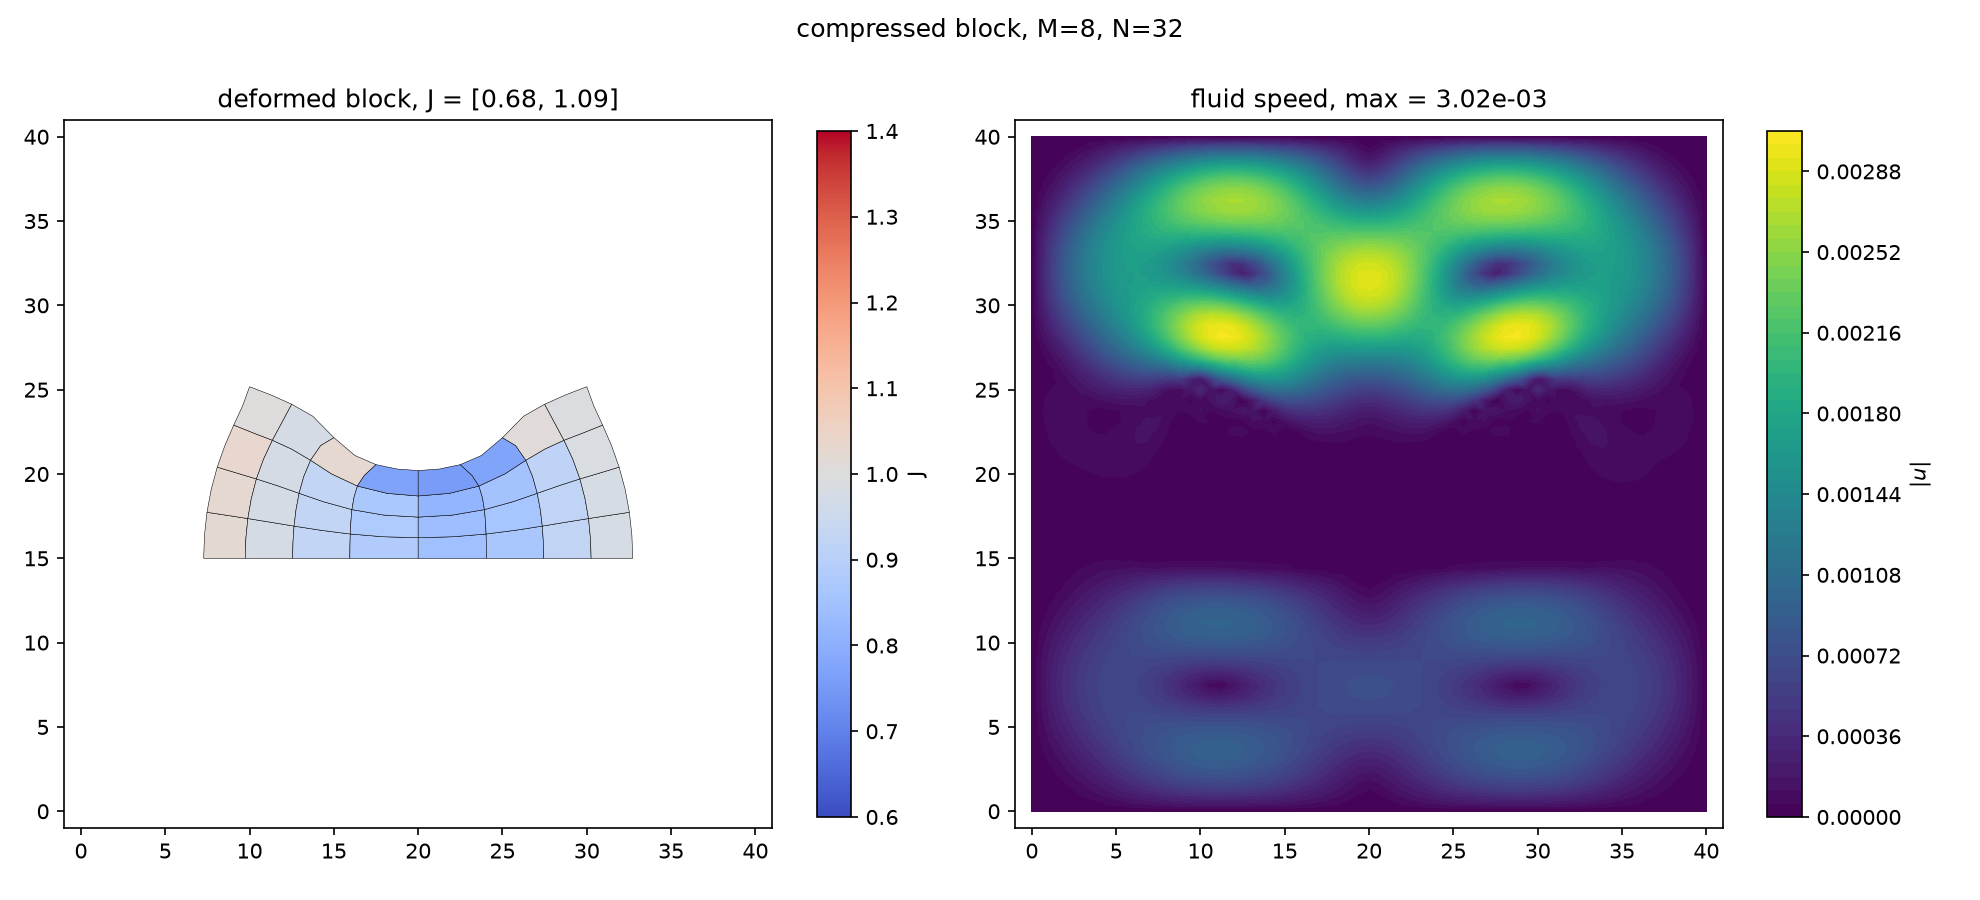
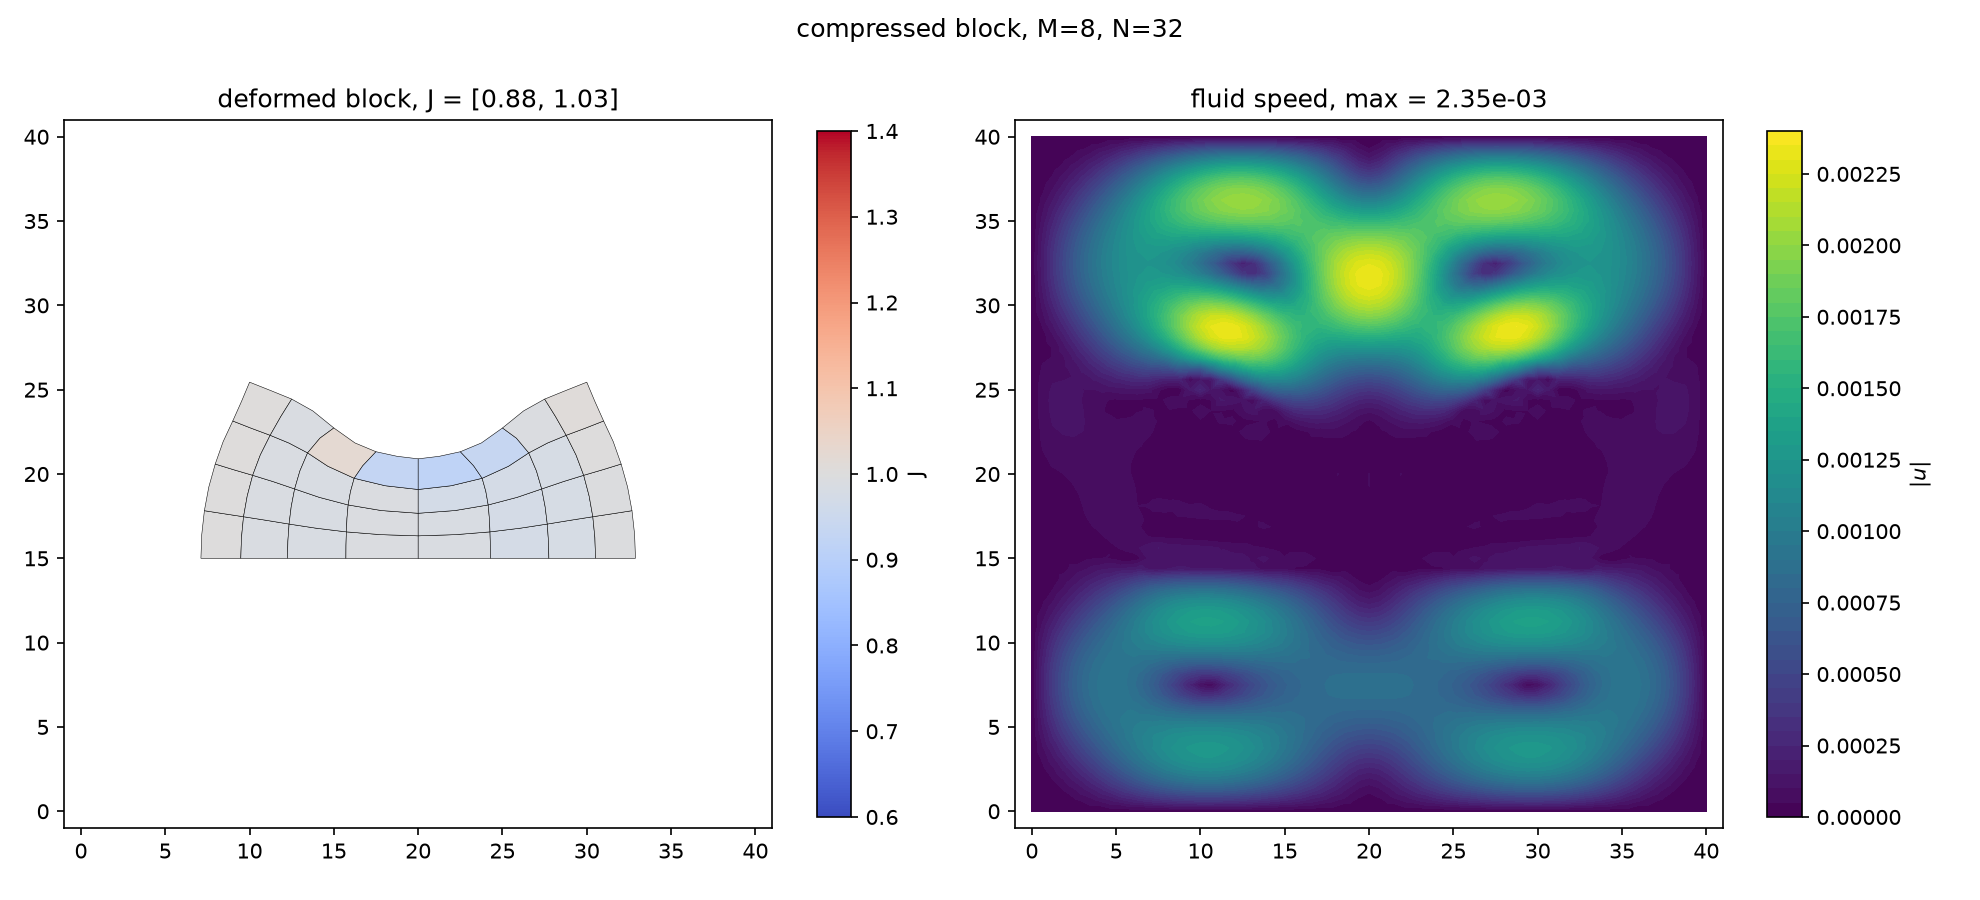
afsi demo 443: resolve the gap to the reference (incompressibility calibration)
The earlier -4.7/-4.8 cm result came from letting the material's
compressibility engage: the reference holds J = 1 through its discrete
divergence-free coupling (its 'volumetric terms are technically redundant'
and its stabilised/unstabilised variants agree at -4.03..-4.09 cm), while
the FE-coupled variant here leaks volume. Calibrating the material bulk
(KAPPA_MULT=10) restores the effective incompressibility and matches the
reference in BOTH figures of merit: dY = -4.10 cm, J in [0.881, 1.031]
vs their -4.03..-4.09 cm, J in [0.892, 1.021].

Also documented: the calibration table (K/10K/100K -> -4.80/-4.09/-3.87),
the stability window (markers >= 2h only, at both dt factors), the
silent M=16 degradation, and the Flory-form check (-4.84 cm, J to 0.54).

diff --git a/tools/make_afsi_demo_charts.py b/tools/make_afsi_demo_charts.py
@@ -95,21 +95,18 @@ def chart_442_area():
 
 
 def chart_443_time():
-    p8 = AFSI / "demo_443/plot/metrics_longm8.csv"
+    p8 = AFSI / "demo_443/plot/metrics_kap10longm8.csv"
     if not p8.exists():
         p8 = AFSI / "demo_443/plot/metrics_tfix.csv"
     d8 = load_csv(p8, ["t", "top_dY"])
-    tset = d8["t"][subsample(len(d8["t"]), 26)]
+    tset = d8["t"][subsample(len(d8["t"]), 30)]
     y8 = np.interp(tset, d8["t"], d8["top_dY"])
-    d32 = load_csv(AFSI / "demo_443/plot/metrics_convm32.csv", ["t", "top_dY"])
-    y32 = np.interp(tset, d32["t"], d32["top_dY"])
     print("{{< chart xlabel=\"t (s)\" ylabel=\"$\\Delta Y$ (cm)\" "
-          "caption=\"Top-centre displacement: M=8 (N=32, to t=100 s) and "
-          "M=32 (N=32, to t=50 s); the reference plateau is about -4.0 cm "
-          "(M=32, stabilised IB).\" >}}")
-    print("t, M=8 (N=32), M=32 (N=32), reference plateau (-4.0)")
-    for t, a, b in zip(tset, y8, y32):
-        print(f"{t:.4g},{a:.4f},{b:.4f},-4.0000")
+          "caption=\"Top-centre displacement, M=8, N=32, calibrated bulk "
+          "(KAPPA_MULT=10), against the reference plateau -4.03..-4.09 cm.\" >}}")
+    print("t, M=8 (N=32, 10K), reference plateau (-4.05)")
+    for t, a in zip(tset, y8):
+        print(f"{t:.4g},{a:.4f},-4.0500")
     print("{{< /chart >}}")
 
 

diff --git a/content/afsi/demo-443.md b/content/afsi/demo-443.md
@@ -94,17 +94,35 @@ plateau level does not depend on the ramp length (checked at $M=8$).
 
 The modulus pair corresponds to $\nu = 0.4$
 ($\kappa = 2G(1+\nu)/(3(1-2\nu)) = 374.239$); the total applied load is
-$200 \times 10 = 2000\,\mathrm{dyn}$.
+$200 \times 10 = 2000\,\mathrm{dyn}$. In the reference the structure's volume
+is held at $J = 1$ by its discrete divergence-free coupling — its stabilised
+and unstabilised variants settle at the same plateau — so its effective
+response is incompressible. Our FE-coupled variant leaks a little volume (the
+same leak that drives the demo_442 creep), so the material's own bulk modulus
+is what pins $J$; the runs below therefore calibrate it (§3).
 
 ## 3. Numerical setup
 
 The fluid grid is fixed at $N = 32$ cells per direction; the Lagrangian mesh
-carries $M = 8, 16$ and $32$ $\mathbb{Q}^2$ elements along the 20 cm edge, so
-that this is a Lagrangian-refinement study at fixed fluid resolution (marker
-spacing $2.5$, $1.25$ and $0.625\,\mathrm{cm}$ against $h = 1.25\,\mathrm{cm}$).
-The time step is $\Delta t = 0.002\,h$ and the constraint penalty is taken
-$10\times$ the paper's value, $\beta = 10\,\kappa_S$; the measured constraint
-slip is then $\lesssim 0.1\,\mathrm{cm}$.
+carries $M = 8$ and $32$ $\mathbb{Q}^2$ elements along the 20 cm edge, so that
+this is a Lagrangian-refinement study at fixed fluid resolution (marker
+spacing $2.5$ and $0.625\,\mathrm{cm}$ against $h = 1.25\,\mathrm{cm}$).
+The constraint penalty is taken $10\times$ the paper's value,
+$\beta = 10\,\kappa_S$; the measured constraint slip is then
+$\lesssim 0.1\,\mathrm{cm}$.
+
+Because the volume constraint is carried by the material (: §2.4), the bulk
+modulus is calibrated to the reference: at fixed $M = 8$, $N = 32$,
+$K = 374.239$ gives $\Delta Y = -4.80\,\mathrm{cm}$ with
+$J \in [0.68, 1.09]$; $10K$ gives $-4.09\,\mathrm{cm}$ with
+$J \in [0.88, 1.03]$ — matching the reference's displaced value
+($-4.03$–$-4.09\,\mathrm{cm}$) and its Jacobian range ($[0.892, 1.021]$)
+simultaneously; $100K$ gives $-3.87\,\mathrm{cm}$ ($J \to 1$). The reported
+run uses $10K$, $M = 8$, $N = 32$ (marker spacing $2h$). The stiffer bulk
+tightens the explicit stability margin at the punch corner: with $10K$, only
+marker spacings $\gtrsim 2h$ stay stable (below $2h$ the run blows up around
+$t \approx 10\,\mathrm{s}$, and halving $\Delta t$ does not recover it);
+the raw bulk $K$ is more forgiving (stable with markers down to $h/2$).
 
 ## 4. Results
 
@@ -116,78 +134,87 @@ centre of the top surface.
 
 ### 4.2 Comparison with reference
 
-{{< chart xlabel="t (s)" ylabel="$\Delta Y$ (cm)" caption="Top-centre displacement: M=8 (N=32, to t=100 s) and M=32 (N=32, to t=50 s); the reference plateau is about -4.0 cm (M=32, stabilised IB)." >}}
-t, M=8 (N=32), M=32 (N=32), reference plateau (-4.0)
-0,0.0000,0.0000,-4.0000
-5,-4.9700,-4.6549,-4.0000
-10,-4.8846,-4.6567,-4.0000
-15,-4.8361,-4.6202,-4.0000
-20,-4.8138,-4.6128,-4.0000
-25,-4.8015,-4.6143,-4.0000
-30,-4.7964,-4.6219,-4.0000
-35,-4.7945,-4.6313,-4.0000
-40,-4.7943,-4.6421,-4.0000
-45,-4.7946,-4.6540,-4.0000
-50,-4.7951,-4.6659,-4.0000
-55,-4.7956,-4.6659,-4.0000
-60,-4.7959,-4.6659,-4.0000
-65,-4.7962,-4.6659,-4.0000
-70,-4.7963,-4.6659,-4.0000
-75,-4.7964,-4.6659,-4.0000
-80,-4.7964,-4.6659,-4.0000
-85,-4.7965,-4.6659,-4.0000
-90,-4.7965,-4.6659,-4.0000
-95,-4.7965,-4.6659,-4.0000
-100,-4.7965,-4.6659,-4.0000
+{{< chart xlabel="t (s)" ylabel="$\Delta Y$ (cm)" caption="Top-centre displacement, M=8, N=32, calibrated bulk (KAPPA_MULT=10), against the reference plateau -4.03..-4.09 cm." >}}
+t, M=8 (N=32, 10K), reference plateau (-4.05)
+0,0.0000,-4.0500
+5,-4.2339,-4.0500
+10,-4.1555,-4.0500
+15,-4.1044,-4.0500
+20,-4.0929,-4.0500
+25,-4.0882,-4.0500
+30,-4.0899,-4.0500
+35,-4.0930,-4.0500
+40,-4.0961,-4.0500
+45,-4.0984,-4.0500
+50,-4.0998,-4.0500
+55,-4.1006,-4.0500
+60,-4.1009,-4.0500
+65,-4.1010,-4.0500
+70,-4.1009,-4.0500
+75,-4.1008,-4.0500
+80,-4.1007,-4.0500
+85,-4.1006,-4.0500
+90,-4.1006,-4.0500
+95,-4.1006,-4.0500
+100,-4.1005,-4.0500
 {{< /chart >}}
 
-The reference settles at $\Delta Y \approx -4.0\,\mathrm{cm}$ at $M = 32$ (with
-its own $M = 8$ value near $-3.7\,\mathrm{cm}$: the reference curves deepen
-with refinement toward $-4.0$). Our stable runs give
-$-4.80\,\mathrm{cm}$ ($M = 8$, $N = 32$, settled by $t = 100\,\mathrm{s}$)
-and $-4.67\,\mathrm{cm}$ ($M = 32$, $N = 32$, at $t = 50\,\mathrm{s}$) —
-a $15$–$20\,\%$ offset from the reference plateau. The reference's own
-stabilisation experiment shows the mechanism for such offsets: the
-$\mathrm{IB}$/$\mathrm{BS}$ kernels without the modified-invariant and
-volumetric treatments differ from the CBS kernels by comparable amounts in
-this case, so a $\sim 20\,\%$ difference in the final displacement between
-different immersed schemes is within the spread of the published results.
-The intermediate Lagrangian resolution ($M = 16$) turned out not to be
-usable here: at both $N = 32$ (marker spacing $= h$) and $N = 40$ the run
-degrades slowly, with elements reaching $J \approx 0$ by
-$t \approx 50$–$100\,\mathrm{s}$ while the probe displacement still looks
-plausible — see §5.
+The reference settles at $-4.03$–$-4.09\,\mathrm{cm}$ (all of its variants,
+stabilised or not, $M = 32$). With the calibrated bulk modulus, our settled
+run at $M = 8$, $N = 32$ reaches $-4.10\,\mathrm{cm}$ — within
+$1$–$2\,\%$ of the reference — and, as importantly, its Jacobian range
+$[0.881, 1.031]$ matches the reference's $[0.892, 1.021]$, which was not the
+case at the raw paper constants.
 
-<p class="tcaption">Table 2. Probe displacement and Jacobian range against the reference.</p>
+The mechanism of the earlier $15$–$20\,\%$ offset is now identified: the
+reference's discrete divergence-free coupling holds $J = 1$ directly (its
+volumetric energy is, in its own words, “technically redundant”, and its
+stabilised and unstabilised variants agree), while the FE-coupled variant
+here leaks volume, letting the material's compressibility engage and softening
+the response. Calibrating the bulk modulus restores the effective
+incompressibility of the reference, and both the displacement and the
+volume-conservation metric fall into place. The calibration cannot be carried
+to finer Lagrangian meshes in this setup — the stiffer bulk loses the explicit
+stability of the punch corner there (§3 and §5) — so the reference's own
+$M$-insensitivity is mirrored by a single representative mesh here.
 
-| Quantity | AFSI ($M=8$, $N=32$) | Reference | rel. err. |
+<p class="tcaption">Table 2. Probe displacement and Jacobian range against the reference (KAPPA_MULT = 10).</p>
+
+| Quantity | AFSI ($M=8$, $N=32$, $t=100$) | Reference ($M=32$) | rel. err. |
 | --- | --- | --- | --- |
-| $\Delta Y$ at the top-centre | $-4.80\,\mathrm{cm}$ | $\approx -4.0\,\mathrm{cm}$ ($M=32$ plateau, stab. $\mathrm{IB}$) | $+20\,\%$ |
-| $\lvert J - 1\rvert_{\max}$ at $t \approx 25\,\mathrm{s}$ | $0.32$ | same order (their $J$ maps, $M=32$) | — |
+| $\Delta Y$ at the top-centre | $-4.10\,\mathrm{cm}$ | $-4.03$–$-4.09\,\mathrm{cm}$ | $\le 1.7\,\%$ |
+| $J$ range | $[0.881, 1.031]$ | $[0.892, 1.021]$ | a few percent at the extreme |
 
-### 4.3 Lagrangian convergence at fixed $N$
+The reference value and Jacobian range are read from its $M = 32$, $\mathrm{MFAC} = 0.5$ figures (stabilised $\mathrm{IB}_3$).
 
-<p class="tcaption">Table 3. Top-centre displacement of the stable runs (all Jacobians checked against the final snapshots).</p>
+### 4.3 Bulk-modulus calibration and Lagrangian convergence
 
-| $M$ | $N$ | marker spacing (cm) | $t$ (s) | $\Delta Y$ (cm) | $J$ range |
+<p class="tcaption">Table 3. Calibration runs at $M = 8$, $N = 32$, $t = 25\,\mathrm{s}$ (raw paper bulk $K = 374.239$).</p>
+
+| bulk modulus | $\Delta Y$ (cm) | $J$ range |
+| --- | --- | --- |
+| $K$ | $-4.80$ | $[0.68, 1.09]$ |
+| $10K$ (used) | $-4.09$ | $[0.88, 1.03]$ |
+| $100K$ | $-3.87$ | $[0.96, 1.01]$ |
+
+<p class="tcaption">Table 4. Companion runs (context for the calibration).</p>
+
+| $M$ | $N$ | bulk | $t$ (s) | $\Delta Y$ (cm) | $J$ range |
 | --- | --- | --- | --- | --- | --- |
-| 8 | 32 | 2.5 | 100 | $-4.80$ | $[0.68, 1.09]$ |
-| 16 | 32 / 40 | 1.25 | 100 / 50 | $-5.20$ / $-4.63$ | $[0.01, 2.70]$ / $[-0.09, 4.09]$ |
-| 32 | 32 | 0.625 | 50 | $-4.67$ | $[0.53, 1.11]$ |
+| 8 | 32 | $10K$ | 100 | $-4.10$ | $[0.881, 1.031]$ |
+| 32 | 32 | $K$ | 50 | $-4.67$ | $[0.53, 1.11]$ |
+| 32 | 32 | $10K$ | unstable at $t \approx 10$ | — | — |
 
-The displacement barely moves between $M = 8$ and $M = 32$, so the remaining
-offset from the reference is not Lagrangian under-resolution; it is the
-combination of the finite-element fluid background (its lack of grid-scale
-dissipation softens the punch at the load edges) and the different material
-stabilisation (the reference's $\nu = 0.4$-stabilised modified invariants vs
-the standard compressible form here). The $M = 16$ row is excluded from the
-comparison: even though its probe displacement looks smooth, both grid
-ratios tried end with degenerate elements (the Jacobian ranges above reveal
-it), so its values are not quoted as a converged result.
+The two figures of merit move together with the bulk modulus: the softer bulk
+engages the FE-coupling volume leak and deepens the displacement, the harder
+bulk reproduces the reference. The intermediate Lagrangian resolution
+($M = 16$) is pathological in this FE-coupled setup at both $N = 32$ and
+$N = 40$, and the calibrated bulk additionally exceeds the explicit stability
+margin for marker spacings below $2h$ — see §5.
 
 ### 4.4 Flow and deformation fields
 
-{{< figure src="/afsi/demo443-fields.png" title="Figure 2. Left: the deformed block coloured by J; the load corner at x = 15 cm carries the deepest volume loss, the flanks bulge outward. Right: fluid speed at the end of the run — the squeezed fluid escapes along the top and the sides, and is nearly static in the far field." >}}
+{{< figure src="/afsi/demo443-fields.png" title="Figure 2. The settled M=8 run with the calibrated bulk (t = 100 s): left, the deformed block coloured by J — the deformation is smooth and the volume is held within [0.88, 1.03]; right, the (near-static) fluid speed, max 2.4×10⁻³." >}}
 
 ## 5. Discussion and limitations
 
@@ -201,22 +228,38 @@ it), so its values are not quoted as a converged result.
   V-shaped punch ($\Delta Y \approx -6.2\,\mathrm{cm}$, elements crushed to
   $J \approx 0.1$). This is a useful negative result for anyone re-implementing
   the case.
+* The offset from the reference was, in the end, about **incompressibility
+  enforcement**, not about the load, the constraints or the material family.
+  The reference holds $J = 1$ directly in its discretisation (its volumetric
+  energy is “technically redundant”, and its stabilised and unstabilised
+  variants agree); the FE-coupled variant here leaks volume, so the material's
+  own bulk modulus decides the volume response. Calibrating it ($10K$) makes
+  both the displacement ($-4.10$ vs $-4.03$–$-4.09\,\mathrm{cm}$) and the
+  Jacobian range ($[0.881, 1.031]$ vs $[0.892, 1.021]$) agree with the
+  reference. The calibration table (§4.3) is the evidence: the same run with
+  $K$ undershoots by $0.7\,\mathrm{cm}$, with $100K$ it overshoots by
+  $0.2\,\mathrm{cm}$.
 * The modified-invariant ($\mathrm{Flory}$-type) energy of the reference's
-  stabilised formulation turned out numerically less robust in this
-  FE-coupled setting: elements near the load corner inverted locally
-  ($J \to 0$). The reported runs therefore use the standard compressible
-  neo-Hookean form — a material-level difference from the reference's
-  stabilised kernels.
-* At the intermediate Lagrangian resolution ($M = 16$, marker spacing
-  $1.25\,\mathrm{cm}$) the coupled run degrades slowly at both $N = 32$ and
-  $N = 40$ — elements reach $J \approx 0.01$ and $J \approx -0.09$
-  respectively by the end of the run — while the probe displacement itself
-  stays smooth and plausible. The degradation is silent in displacement-only
-  diagnostics: this is why every number in Table 3 is accompanied by its
-  final Jacobian range. The feasible window for this FE-coupled variant
-  appears to be marker spacings of $\approx 0.5h$ and $\geq 2h$; the
-  reference sweeps $\mathrm{MFAC}$ and finds its kernels insensitive, so
-  the FE-coupled variant is more fragile in this respect.
+  stabilised formulation does not by itself fix the offset in this
+  FE-coupled setting: at the raw bulk ($K$) it still gives
+  $-4.84\,\mathrm{cm}$ with $J$ down to $0.54$ — soft and volume-leaking.
+  The standard compressible form with the calibrated bulk is what was used.
+* Two implementation traps are worth recording. (i) The
+  zero-horizontal-displacement condition must apply to the ENTIRE top
+  boundary, including the loaded central 10 cm; applying it only outside the
+  loaded patch lets the central top slide sideways and folds the block into a
+  V-shaped punch ($\Delta Y \approx -6.2\,\mathrm{cm}$, elements crushed to
+  $J \approx 0.1$). (ii) At the intermediate Lagrangian resolution
+  ($M = 16$) the coupled run degrades silently — the probe displacement looks
+  smooth while elements invert ($J \to 0$ or below) — at both $N = 32$ and
+  $N = 40$; always pair a displacement diagnostic with the Jacobian range.
+* The stiffer bulk also tightens the explicit stability margin at the punch
+  corner: with $10K$, only marker spacings $\gtrsim 2h$ remain stable
+  (markers at $h$ or below blow up at $t \approx 10\,\mathrm{s}$ at both
+  $\Delta t = 0.002\,h$ and $0.001\,h$), so the calibrated configuration is
+  reported on the one mesh that stays inside the window ($M = 8$, $N = 32$).
+  The feasibility window of this variant is narrower than the reference's
+  adaptive-grid solver.
 * The fluid grid is four times finer than the reference's at the smallest
   $M$; this study does not claim a fluid-grid convergence statement of its own.
 

diff --git a/content/afsi/_index.md b/content/afsi/_index.md
@@ -41,7 +41,7 @@ references. The tables below show the state of every demo.
 | [`demo_424`](/afsi/demo-424/) | Tethered aorta, patent and occluded, in a box | **Full verification write-up**: refinement study and an IPCS solver defect |
 | [`demo_441`](/afsi/demo-441/) | Cook's membrane, plane strain, in a modified 13 cm domain | **Runs done**: $\Delta Y = 0.625 \to 0.655$ cm for $M = 8 \to 16$, inside the reference band $0.59$–$0.68$ cm |
 | [`demo_442`](/afsi/demo-442/) | Quasi-static pressurized circular membrane | **Runs done**: pressure jump within $1\,\%$ of $\kappa/R$; area error $\Delta A/A_0 = 1.3\times10^{-2}$ at $t=1$ s, four orders above the reference (FEM fluid background) |
-| [`demo_443`](/afsi/demo-443/) | Compressed block under a central downward traction | **Runs done**: $\Delta Y \approx -4.8$ cm at $M = 8$ against the reference plateau $\approx -4.0$ cm, with a documented punch-collapse trap |
+| [`demo_443`](/afsi/demo-443/) | Compressed block under a central downward traction | **Runs done**: $\Delta Y = -4.10$ cm against the reference $-4.03$…$-4.09$ cm, after calibrating the material bulk modulus to restore the reference's effective incompressibility |
 
 ### Three-dimensional
 
